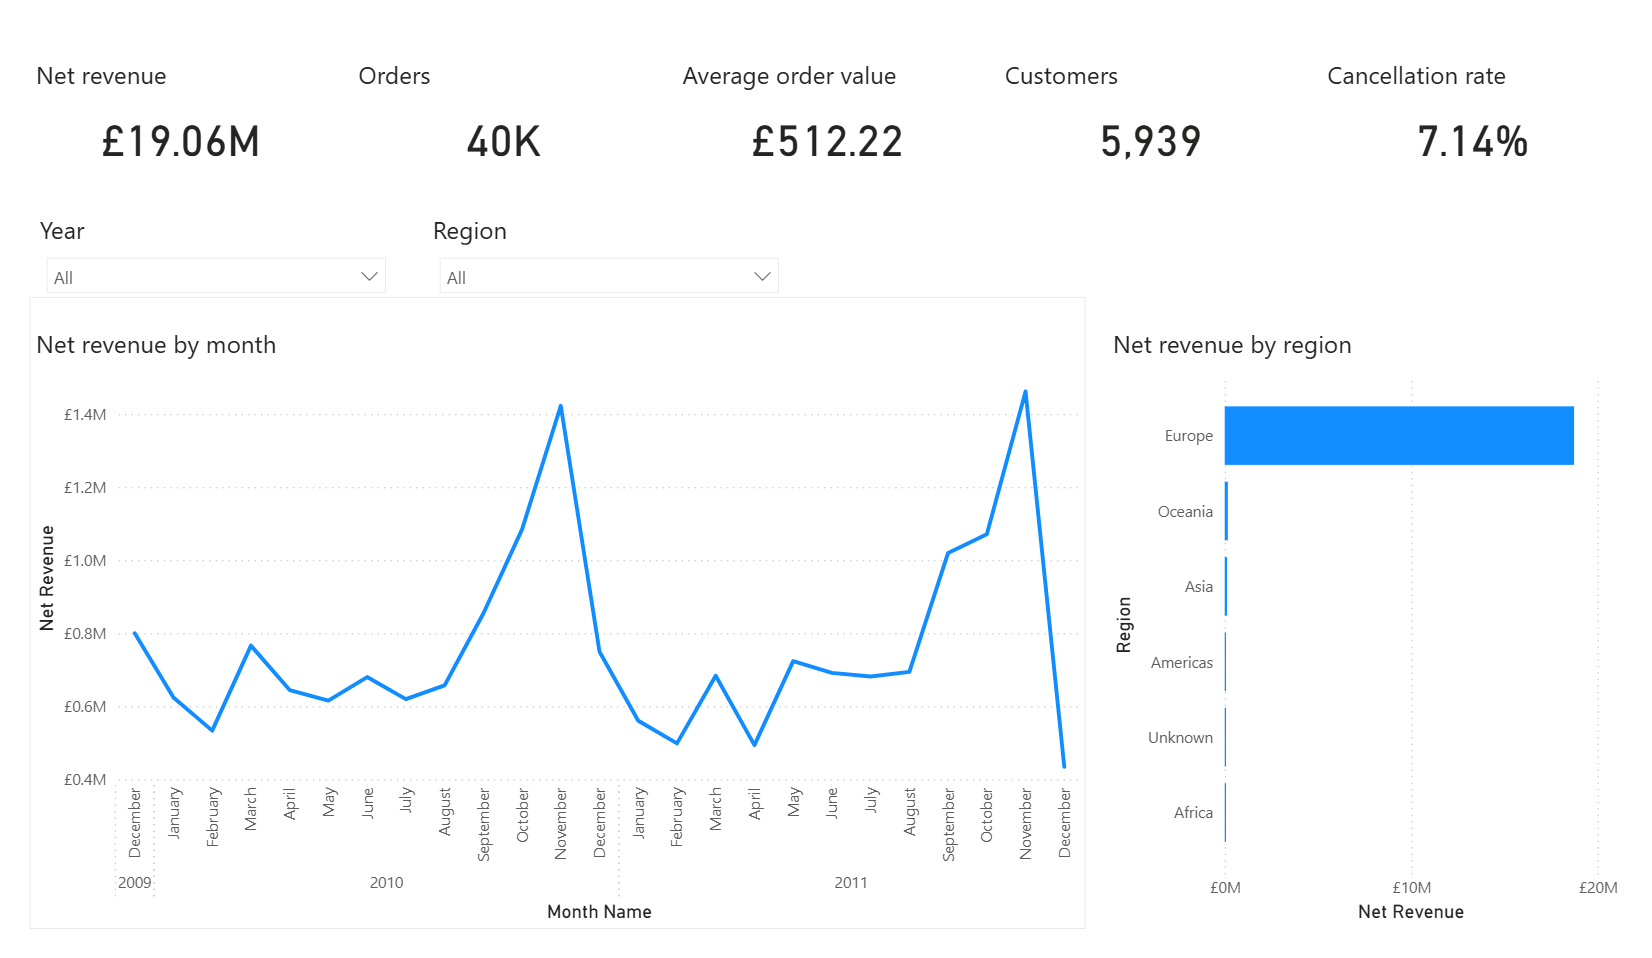
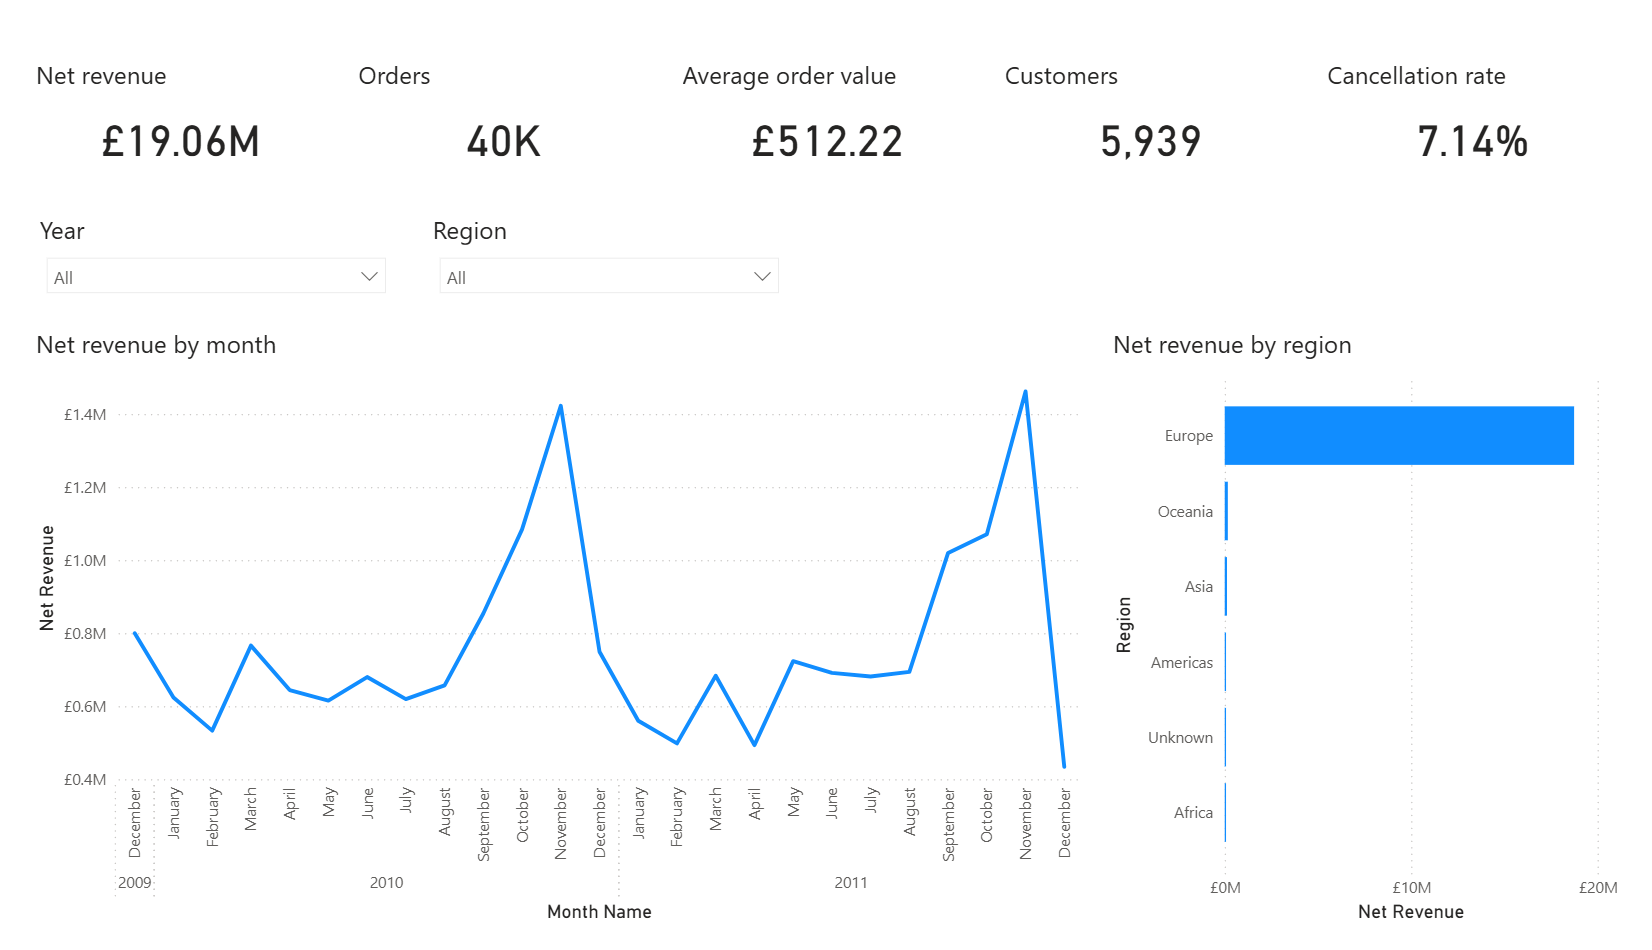
lead the readme with the report pages and what the data shows

diff --git a/tests/test_findings.py b/tests/test_findings.py
@@ -1,0 +1,59 @@
+from decimal import Decimal
+
+import pytest
+
+from pipeline.lake import table_path
+from pipeline.transform import lake_connection
+
+
+@pytest.mark.skipif(
+    not table_path("gold", "fact_orders").is_dir(),
+    reason="real gold tables are absent",
+)
+def test_findings_in_readme():
+    with lake_connection("data/lake") as connection:
+        q = lambda sql: connection.execute(sql).fetchall()
+        assert q("""
+            SELECT date_key // 100 FROM gold.fact_sales
+            GROUP BY 1 ORDER BY sum(line_amount) DESC LIMIT 2
+        """) == [(201111,), (201011,)]
+        assert q("""
+            SELECT date_key // 10000, sum(line_amount) FROM gold.fact_sales
+            WHERE date_key % 10000 < 1201 GROUP BY 1 ORDER BY 1
+        """) == [(2010, Decimal("8498611.094")), (2011, Decimal("8576184.964"))]
+        assert q("""
+            SELECT round(100 * sum(line_amount) FILTER (WHERE retailer_name = 'United Kingdom')
+                / sum(line_amount), 1)
+            FROM gold.fact_sales JOIN gold.dim_country USING (country_key)
+        """) == [(84.9,)]
+        assert q("""
+            WITH customers AS (
+                SELECT customer_key, sum(line_amount) AS revenue FROM gold.fact_sales
+                WHERE customer_key <> 0 GROUP BY 1
+            ), top_one_percent AS (
+                SELECT revenue FROM customers ORDER BY revenue DESC
+                LIMIT (SELECT count(*) // 100 FROM customers)
+            )
+            SELECT round(100 * (SELECT sum(revenue) FROM top_one_percent) / sum(revenue), 1)
+            FROM customers
+        """) == [(31.2,)]
+        assert q("""
+            SELECT
+                round(100 * count(DISTINCT customer_key) FILTER (WHERE customer_order_number = 2)
+                    / count(DISTINCT customer_key) FILTER (WHERE customer_order_number = 1), 1),
+                round(100 * sum(order_amount) FILTER (WHERE customer_order_number > 1)
+                    / sum(order_amount) FILTER (WHERE customer_order_number IS NOT NULL), 1),
+                median(days_since_previous_order)
+            FROM gold.fact_orders
+        """) == [(72.4, 86.0, 25.0)]
+        assert q("""
+            SELECT round(100 * -sum(line_amount) FILTER (WHERE is_cancellation)
+                / sum(line_amount) FILTER (WHERE NOT is_cancellation), 2)
+            FROM gold.fact_sales
+        """) == [(7.14,)]
+        assert q("""
+            SELECT day_name, count(DISTINCT invoice_no) FROM gold.fact_sales
+            JOIN gold.dim_date USING (date_key)
+            WHERE NOT is_cancellation AND day_name IN ('Saturday', 'Sunday')
+            GROUP BY 1 ORDER BY 1
+        """) == [("Saturday", 30), ("Sunday", 4_835)]

diff --git a/README.md b/README.md
@@ -1,6 +1,33 @@
 # Retail sales pipeline
 
-This is a medallion pipeline over the UCI Online Retail II dataset, which is two years of invoice lines from a UK online gift retailer. It loads the workbook into bronze as text, cleans it into silver with SQL, and builds a star schema in gold. Every layer is a set of Delta tables, and every transformation is a SQL file that DuckDB runs. The same code runs on one machine and in Microsoft Fabric Python notebooks.
+I took two years of invoice lines from a UK online gift retailer, the UCI Online Retail II dataset, cleaned them in SQL into a star schema, and built a Power BI report on top of it. The report and the pipeline both run in Microsoft Fabric.
+
+## What the data shows
+
+![The Overview page, with five cards, net revenue by month and net revenue by region](docs/report-overview.png)
+
+- The business is seasonal. November is the largest month in both years, with 1,461,756 pounds in 2011 and 1,422,655 pounds in 2010, and revenue climbs from September onward, which fits a gift shop in the run-up to Christmas.
+- It did not grow. January to November brought 8,498,611 pounds in 2010 and 8,576,185 pounds in 2011, which is less than one percent more.
+- The line falls at the end because the data stops on 9 December 2011, so the last month is not a whole month.
+
+![The Customers page, with repeat-customer cards, first and repeat revenue by month and the top customers](docs/report-customers.png)
+
+- Repeat customers carry the revenue. Of the customers who bought in the two years, 72.4% came back for a second order, and repeat orders make up 86.0% of the revenue from known customers. The median gap between two orders of the same customer is 25 days.
+- A few customers matter a lot. The top 1% of customers, 59 of 5,939, bring 31.2% of the revenue from known customers.
+- The United Kingdom is 84.9% of net revenue.
+
+![The Operations page, with the cancellation rate, the cancelled amount by country, revenue without a customer and orders by day of week](docs/report-operations.png)
+
+- Cancellations take 7.14% of gross sales over the two years.
+- The shop barely trades on Saturdays. There are 30 orders on a Saturday in two years and 4,835 on a Sunday, so Saturday looks like a closed day rather than a slow one.
+
+![The Products page, with the top ten merchandise products and a table of every product](docs/report-products.png)
+
+`tests/test_findings.py` asserts every number in this section against the gold tables.
+
+## How the data was prepared
+
+The workbook goes into bronze as text, is cleaned into silver with SQL, and becomes a star schema in gold. Every layer is a set of Delta tables, and every transformation is a SQL file that DuckDB runs.
 
 | | |
 |---|---|
@@ -44,10 +71,6 @@ The published model needs one sign-in on its data source credentials in the Powe
 ## Power BI
 
 `powerbi/retail-sales.pbip` opens in Power BI Desktop. Each of its six tables is a Power Query that reads one gold Delta table with `DeltaLake.Table` from the gold folder under the `LakeRoot` parameter, so the parameter has to point at your own `data/lake` before the first refresh. The report has four pages: Overview, Products, Customers and Operations.
-
-![The Overview page, with five cards, net revenue by month and net revenue by region](docs/report-overview.png)
-
-The line falls at the end because the data stops on 9 December 2011, so the last month is not a whole month.
 
 I checked it in Power BI Desktop 2.159. After a refresh the Products table totals 19,057,172.70 pounds and the Customers card shows 5,939, which are the numbers that the tests assert. The Customers page is built on `fact_orders`, which numbers the orders of every customer in time order, and it counts 4,255 customers who ordered more than once.
 
